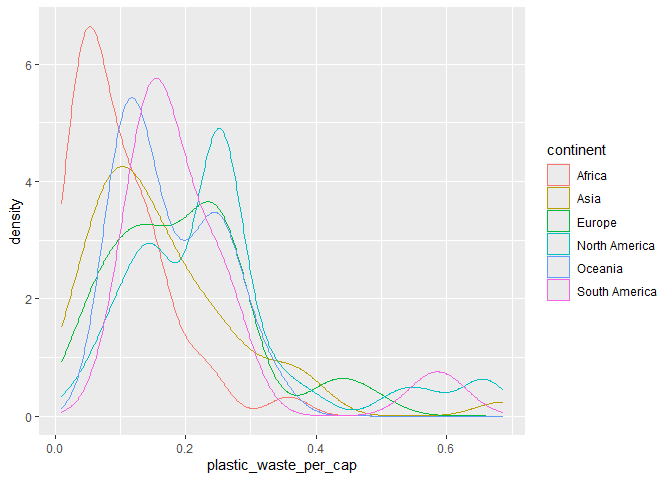
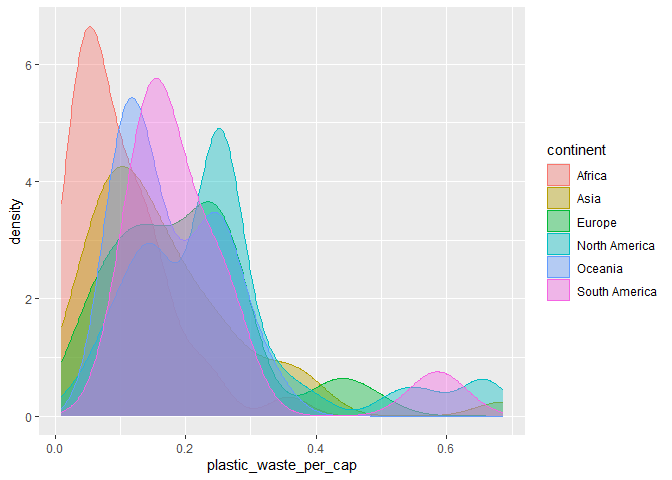
Question 2 fini

Changed region(s): [[0.0938, 0.0625, 0.75, 0.875], [0.8125, 0.3438, 0.8438, 0.625]]

diff --git a/lab-02.md b/lab-02.md
@@ -48,13 +48,16 @@ ggplot(data = plastic_waste, aes(x = plastic_waste_per_cap)) +
 ### Exercise 2
 
 ``` r
-ggplot(plastic_waste, aes(x = plastic_waste_per_cap, colour = continent)) +
-    geom_density()
+ggplot(plastic_waste, aes(x = plastic_waste_per_cap, colour = continent, fill = continent)) +
+    geom_density(alpha = 0.4)
 ```
 
 ![](lab-02_files/figure-gfm/plastic-waste-density-1.png)<!-- -->
 
-Réponse à la question…
+Le réglage de la couleur se fait dans aes puisque ces modifications
+dépendent des données. Le réglage de alpha se fait dans la section geom
+puisque cette propriétée ne dépend pas des variables du graphique, mais
+plutôt de l’allure du graphique.
 
 ### Exercise 3
 
